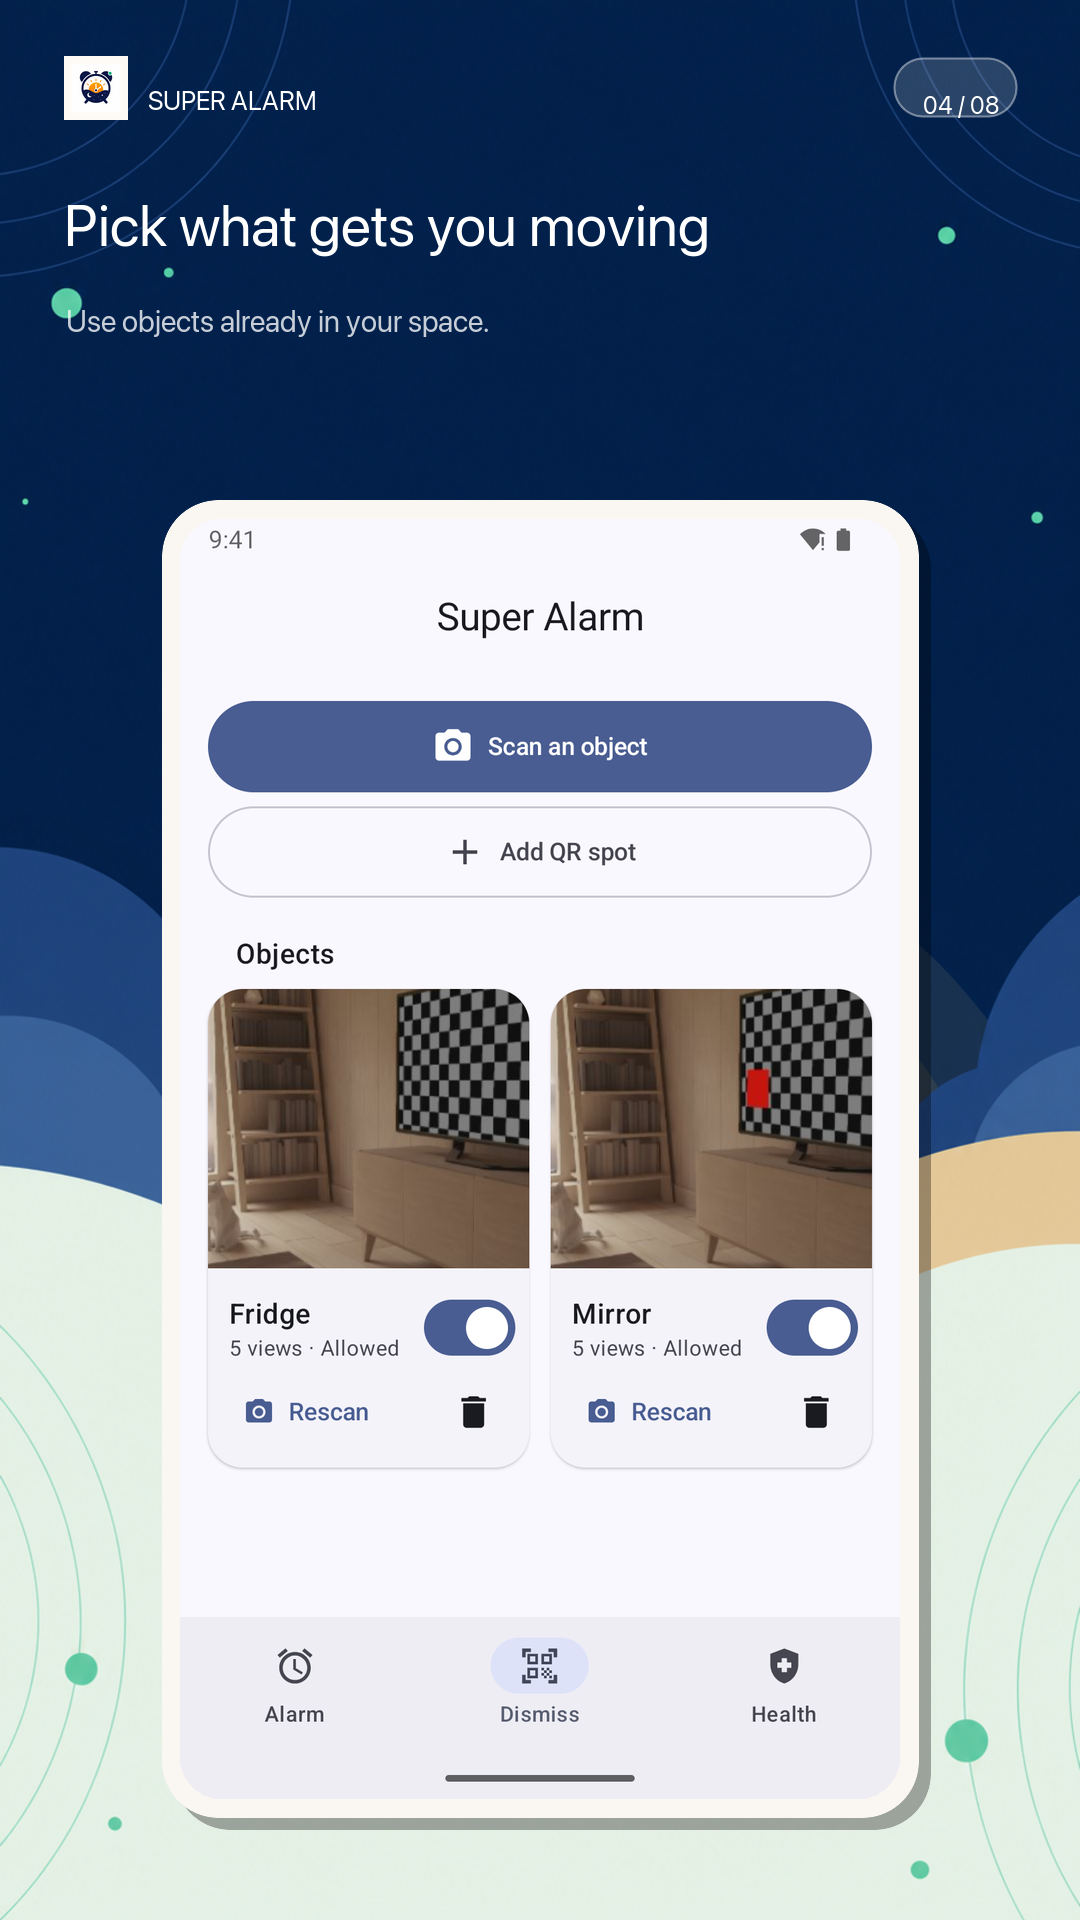
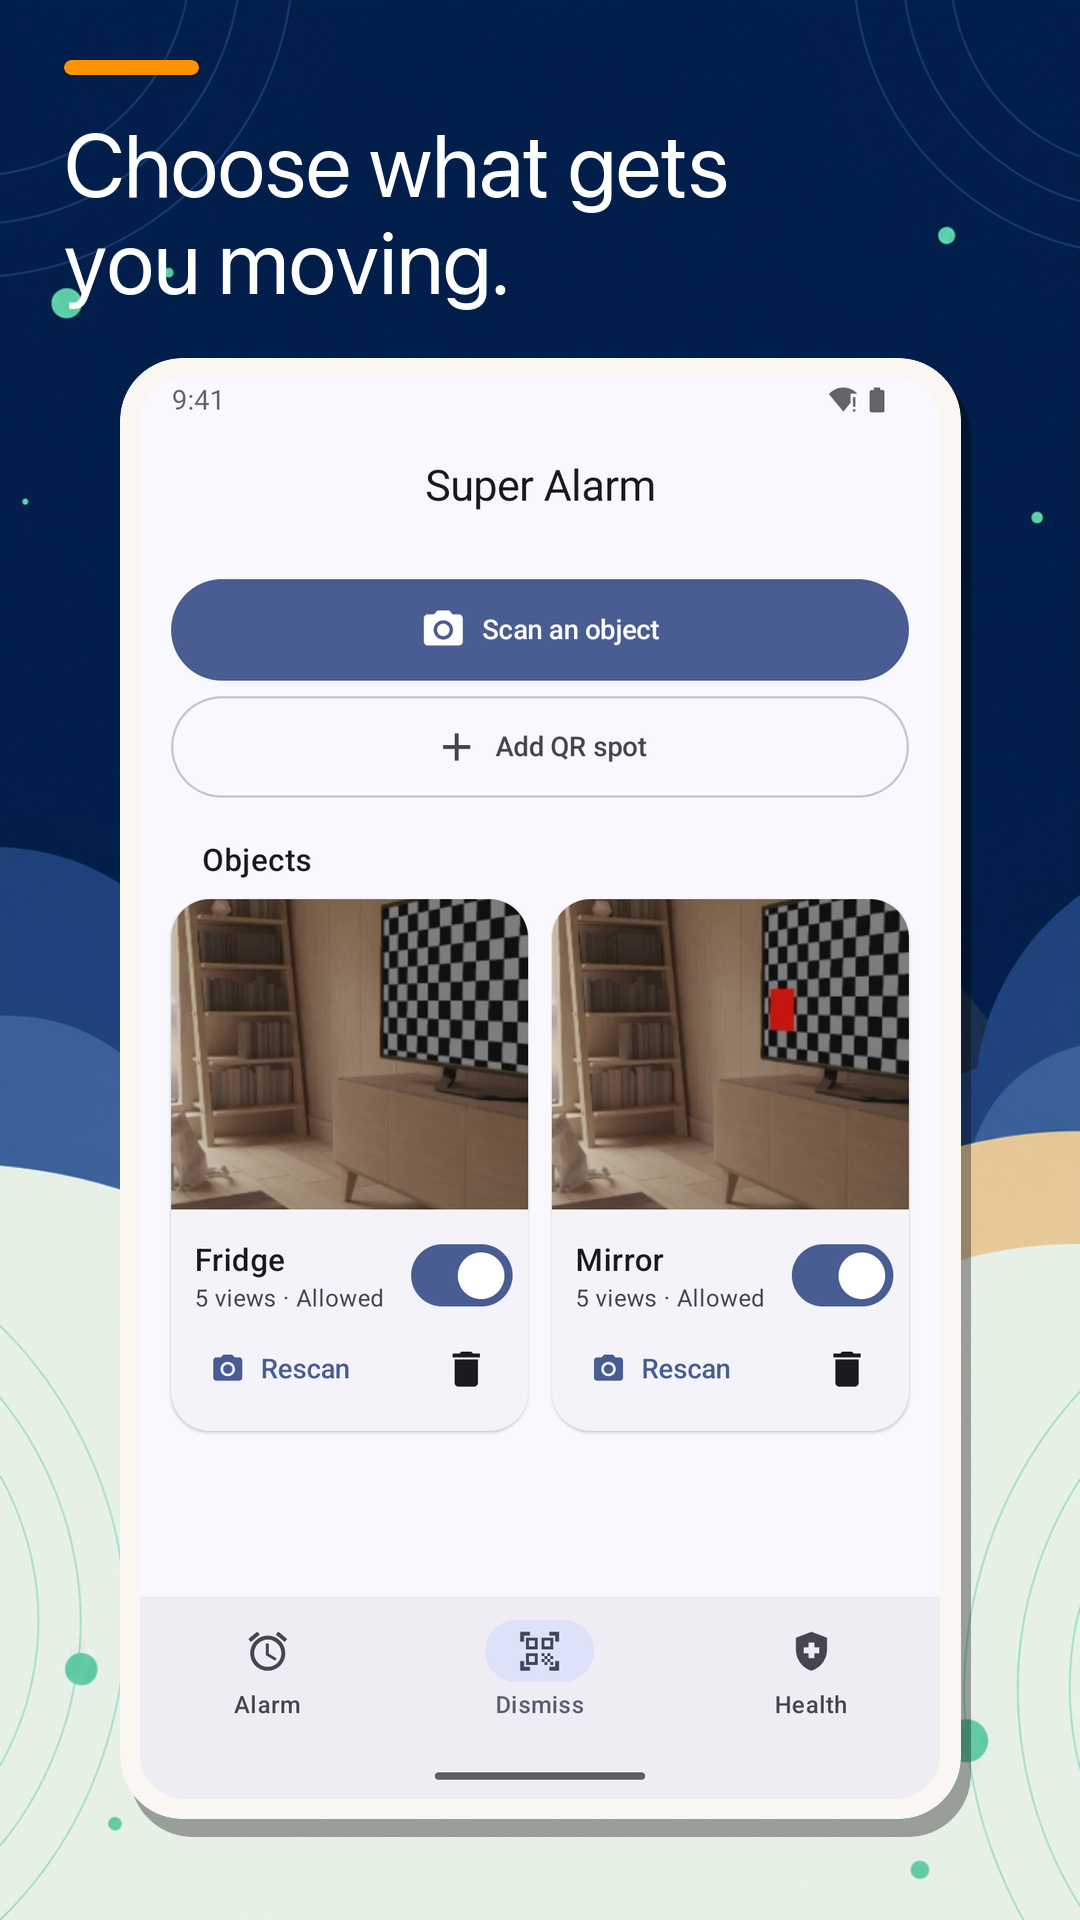
fix(store): simplify Play screenshot layout

diff --git a/scratchpad/play-store-branded-screenshots-session-log-2026-08-01.md b/scratchpad/play-store-branded-screenshots-session-log-2026-08-01.md
@@ -12,3 +12,10 @@
 - Composited all eight untouched app captures into the branded system with screen-specific headlines and saved them under `store/screenshots/android/phone-branded/`.
 - Inspected the complete contact sheet and confirmed that each headline matches the visible app state.
 - Verified all eight finals as 1080x1920, 8-bit RGB PNG files without alpha; every file is below Google Play's 15 MB limit.
+
+## 2026-08-01 12:29 PKT
+
+- Reworked the screenshot set after review showed that the top marketing area had weak hierarchy and too many competing elements.
+- Removed the small logo, sequence counter, generic headline, and subtitle from every image.
+- Replaced them with one large two-line benefit statement and a single orange accent, then enlarged and raised each real app capture so the product dominates the composition.
+- Inspected the revised eight-image contact sheet and revalidated every final as a 1080x1920 opaque 8-bit RGB PNG below Google Play's size limit.
